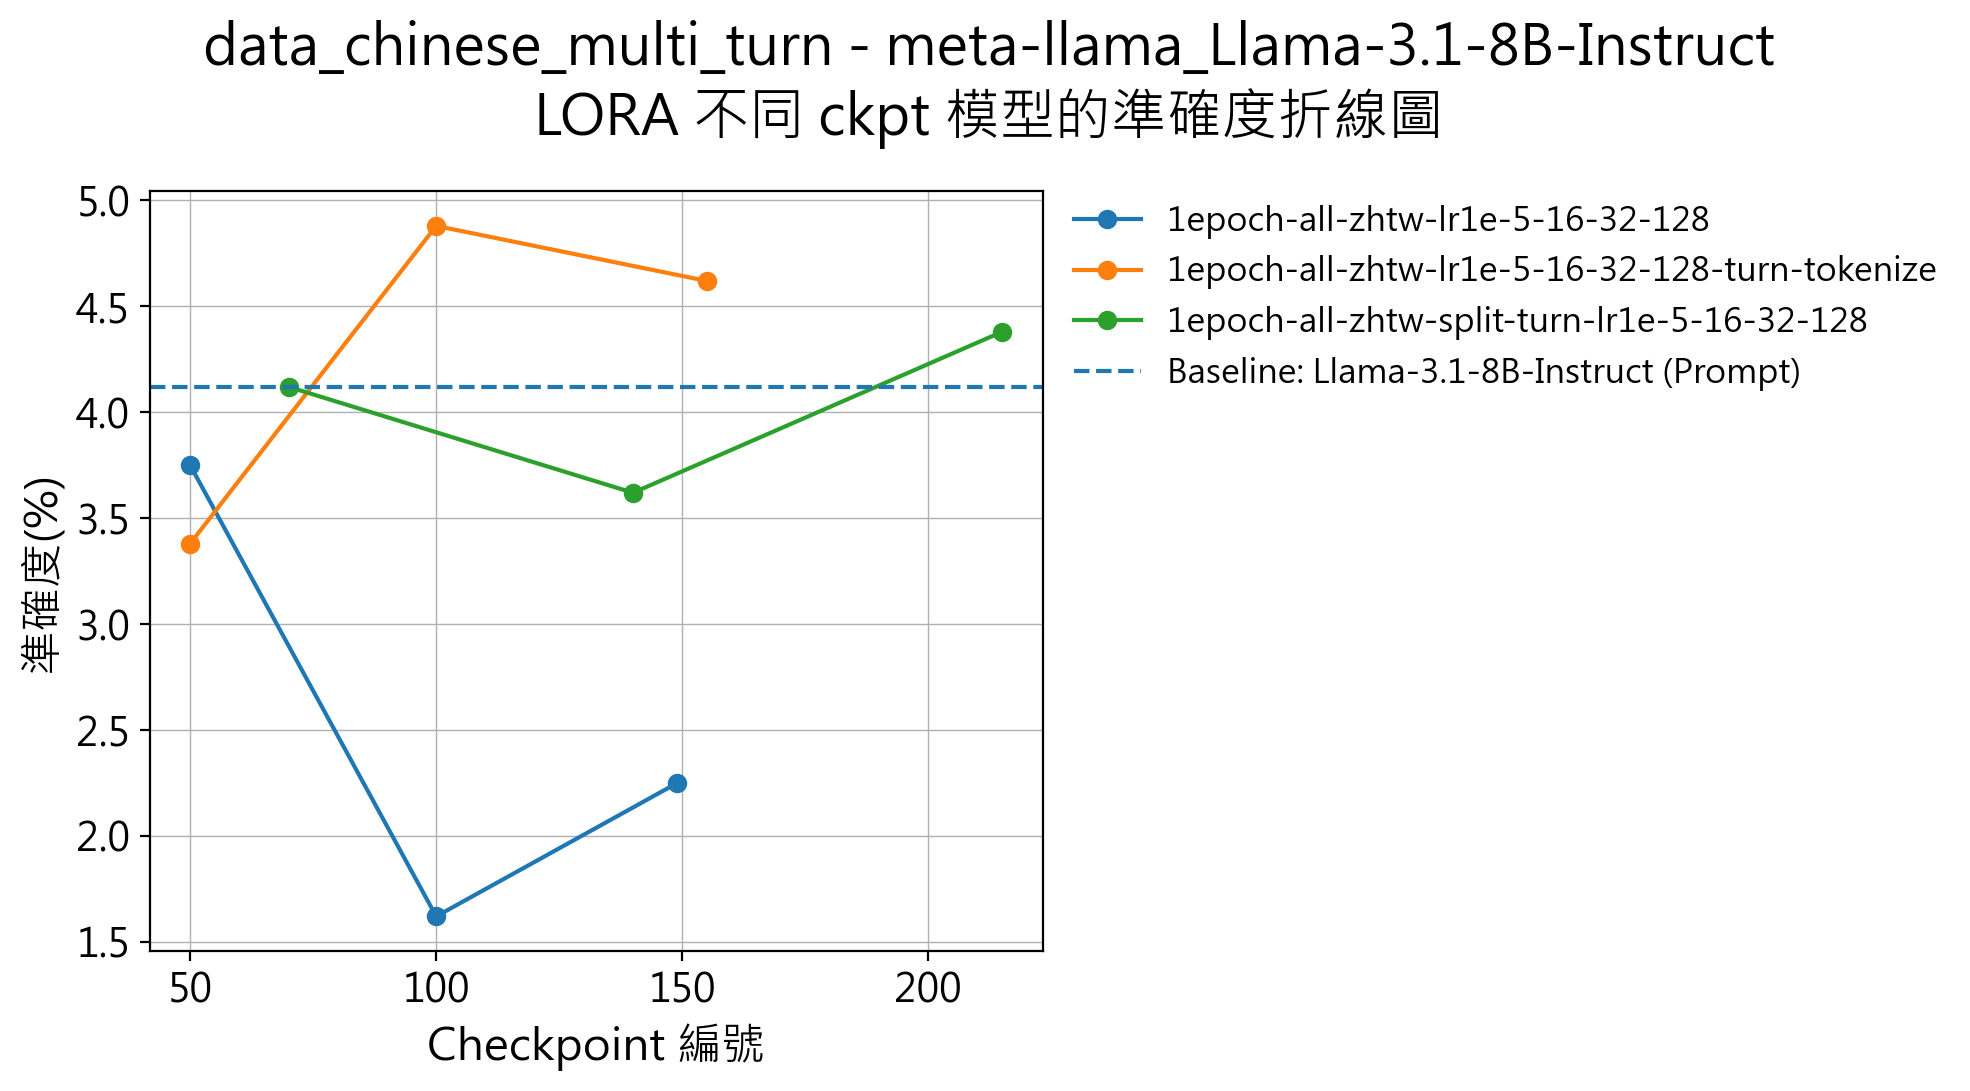
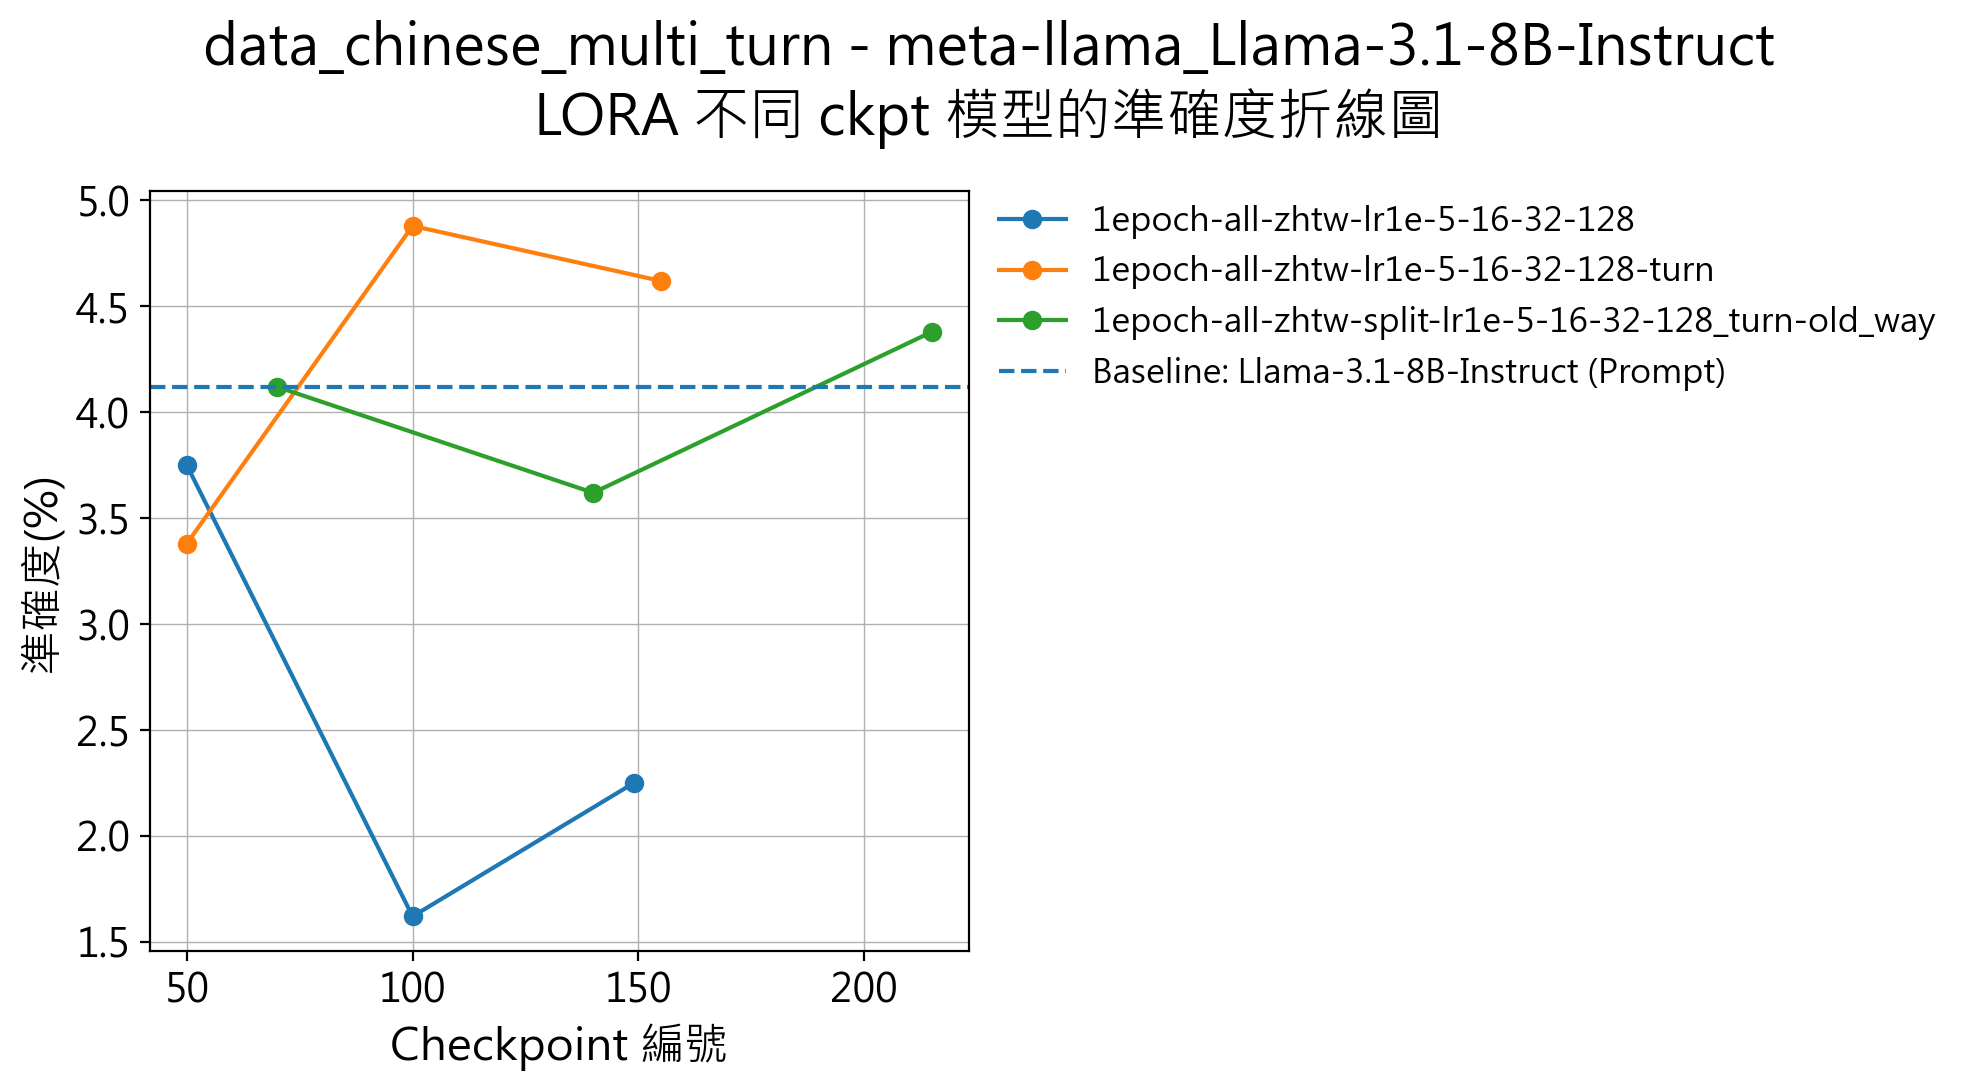
New results

diff --git a/berkeley-function-call-leaderboard/bfcl_eval/constants/model_config.py b/berkeley-function-call-leaderboard/bfcl_eval/constants/model_config.py
@@ -7592,7 +7592,7 @@ local_inference_model_map = {
         # 1epoch-all-zhtw-lr1e-5-16-32-128-turn-tokenize
         "meta-llama/Llama-3.1-8B-Instruct-checkpoint-50-merged-1epoch-all-zhtw-lr1e-5-16-32-128-turn-tokenize": ModelConfig(
             model_name="meta-llama/Llama-3.1-8B-Instruct-checkpoint-50-merged-1epoch-all-zhtw-lr1e-5-16-32-128-turn-tokenize",
-            display_name="Meta Llama 3.1-8B-Instruct LoRA ckpt50-1epoch-all-zhtw-lr1e-5-16-32-128-turn-tokenize",
+            display_name="Meta Llama 3.1-8B-Instruct LoRA ckpt50-1epoch-all-zhtw-lr1e-5-16-32-128-turn",
             url="self",
             org="Meta",
             license="Meta Llama 3 Community",
@@ -7604,7 +7604,7 @@ local_inference_model_map = {
         ),
         "meta-llama/Llama-3.1-8B-Instruct-checkpoint-100-merged-1epoch-all-zhtw-lr1e-5-16-32-128-turn-tokenize": ModelConfig(
             model_name="meta-llama/Llama-3.1-8B-Instruct-checkpoint-100-merged-1epoch-all-zhtw-lr1e-5-16-32-128-turn-tokenize",
-            display_name="Meta Llama 3.1-8B-Instruct LoRA ckpt100-1epoch-all-zhtw-lr1e-5-16-32-128-turn-tokenize",
+            display_name="Meta Llama 3.1-8B-Instruct LoRA ckpt100-1epoch-all-zhtw-lr1e-5-16-32-128-turn",
             url="self",
             org="Meta",
             license="Meta Llama 3 Community",
@@ -7616,7 +7616,7 @@ local_inference_model_map = {
         ),
         "meta-llama/Llama-3.1-8B-Instruct-checkpoint-155-merged-1epoch-all-zhtw-lr1e-5-16-32-128-turn-tokenize": ModelConfig(
             model_name="meta-llama/Llama-3.1-8B-Instruct-checkpoint-155-merged-1epoch-all-zhtw-lr1e-5-16-32-128-turn-tokenize",
-            display_name="Meta Llama 3.1-8B-Instruct LoRA ckpt155-1epoch-all-zhtw-lr1e-5-16-32-128-turn-tokenize",
+            display_name="Meta Llama 3.1-8B-Instruct LoRA ckpt155-1epoch-all-zhtw-lr1e-5-16-32-128-turn",
             url="self",
             org="Meta",
             license="Meta Llama 3 Community",
@@ -7629,7 +7629,7 @@ local_inference_model_map = {
         # 1epoch-all-zhtw-split-turn-lr1e-5-16-32-128
         "meta-llama/Llama-3.1-8B-Instruct-checkpoint-70-merged-1epoch-all-zhtw-split-turn-lr1e-5-16-32-128": ModelConfig(
             model_name="meta-llama/Llama-3.1-8B-Instruct-checkpoint-70-merged-1epoch-all-zhtw-split-turn-lr1e-5-16-32-128",
-            display_name="Meta Llama 3.1-8B-Instruct LoRA ckpt70-1epoch-all-zhtw-split-turn-lr1e-5-16-32-128",
+            display_name="Meta Llama 3.1-8B-Instruct LoRA ckpt70-1epoch-all-zhtw-split-lr1e-5-16-32-128_turn-old_way ",
             url="self",
             org="Meta",
             license="Meta Llama 3 Community",
@@ -7641,7 +7641,7 @@ local_inference_model_map = {
         ),
         "meta-llama/Llama-3.1-8B-Instruct-checkpoint-140-merged-1epoch-all-zhtw-split-turn-lr1e-5-16-32-128": ModelConfig(
             model_name="meta-llama/Llama-3.1-8B-Instruct-checkpoint-140-merged-1epoch-all-zhtw-split-turn-lr1e-5-16-32-128",
-            display_name="Meta Llama 3.1-8B-Instruct LoRA ckpt140-1epoch-all-zhtw-split-turn-lr1e-5-16-32-128",
+            display_name="Meta Llama 3.1-8B-Instruct LoRA ckpt140-1epoch-all-zhtw-split-lr1e-5-16-32-128_turn-old_way ",
             url="self",
             org="Meta",
             license="Meta Llama 3 Community",
@@ -7653,7 +7653,7 @@ local_inference_model_map = {
         ),
         "meta-llama/Llama-3.1-8B-Instruct-checkpoint-215-merged-1epoch-all-zhtw-split-turn-lr1e-5-16-32-128": ModelConfig(
             model_name="meta-llama/Llama-3.1-8B-Instruct-checkpoint-215-merged-1epoch-all-zhtw-split-turn-lr1e-5-16-32-128",
-            display_name="Meta Llama 3.1-8B-Instruct LoRA ckpt215-1epoch-all-zhtw-split-turn-lr1e-5-16-32-128",
+            display_name="Meta Llama 3.1-8B-Instruct LoRA ckpt215-1epoch-all-zhtw-split-lr1e-5-16-32-128_turn-old_way ",
             url="self",
             org="Meta",
             license="Meta Llama 3 Community",
